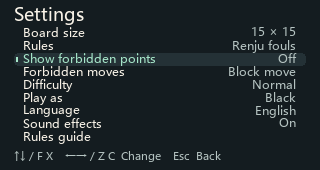
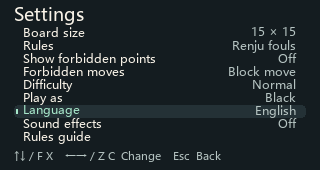
Document language switching in Five 1.2.1-4

Changed region(s): [[0.0312, 0.2941, 0.5, 0.3824], [0.0312, 0.6176, 0.25, 0.6765], [0.8438, 0.6765, 0.9375, 0.7647]]

diff --git a/build_package.py b/build_package.py
@@ -43,7 +43,7 @@ def main():
     launcher = "usr/share/APPLaunch"
     icon_path = f"{launcher}/share/images/five.png"
     control = """Package: five
-Version: 1.2.1-3
+Version: 1.2.1-4
 Section: games
 Priority: optional
 Architecture: arm64
@@ -82,7 +82,7 @@ Categories=Game;BoardGame;
         f"{docs}/LICENSE": ((root / "LICENSE").read_bytes(), 0o644),
         f"{docs}/build_rapfi.ps1": ((root / "build_rapfi.ps1").read_bytes(), 0o644),
     })
-    output = root / "dist" / "five_1.2.1-3_arm64.deb"
+    output = root / "dist" / "five_1.2.1-4_arm64.deb"
     output.parent.mkdir(exist_ok=True)
     output.write_bytes(b"!<arch>\n" + b"".join((
         ar_member("debian-binary", b"2.0\n"),

diff --git a/README.md b/README.md
@@ -4,10 +4,10 @@
 
 ## 安装
 
-将 `dist/five_1.2.1-3_arm64.deb` 复制到 Cardputer Zero，在设备上运行：
+将 `dist/five_1.2.1-4_arm64.deb` 复制到 Cardputer Zero，在设备上运行：
 
 ```sh
-sudo apt install ./five_1.2.1-3_arm64.deb
+sudo apt install ./five_1.2.1-4_arm64.deb
 ```
 
 安装后从应用启动器打开 **Five**。
@@ -31,20 +31,30 @@ On a Zero or the [Five web app](https://fivezero.vercel.app), choose **Create ro
 
 在 Cardputer Zero 上下五子棋。可与 Rapfi 对弈，选择三档难度，也可在同一台设备轮流落子。联机时，Zero 和浏览器都可创建房间，用 6 位房间码加入。同一局域网内可双 Zero、双网页或混合对战，电脑无需安装或运行额外程序。支持 15×15 和 13×13 棋盘、自由规则与连珠禁手，界面提供简体中文和英文。联机配对需要互联网连接，对局在局域网内直连。网页版：https://fivezero.vercel.app/
 
+Zero 切换语言：从主菜单进入「设置 / Settings」，选中「语言 / Language」，按 Enter 或左右方向键（Z / C）切换简体中文和 English。网页版可用右上角的「English / 简体中文」按钮切换。
+
 **English**
 
 Play Gomoku against Rapfi at three difficulty levels, take turns on one Cardputer Zero, or play over your LAN. Either a Zero or a browser can host or join using a 6-digit room code. The browser needs no extra software. Choose a 15×15 or 13×13 board with Freestyle or Renju fouls. The interface supports Simplified Chinese and English. Pairing requires internet access. Moves travel directly between players on the LAN. Web app: https://fivezero.vercel.app/
+
+To change the language on Zero, open Settings (设置) from the main menu, select Language (语言), and press Enter or Left/Right (Z/C) to switch between Simplified Chinese and English. On the web, use the English / 简体中文 button in the top right.
 
 ## 截图 / Screenshots
 
 | 简体中文 | English |
 | --- | --- |
+| ![切换语言](screenshots/renju-settings-zh.png) | ![Changing the language](screenshots/renju-settings-en.png) |
 | ![终局与重新开始](screenshots/results-zh.png) | ![Results and Play again](screenshots/results-en.png) |
 | ![联机对局](screenshots/lan-game-zh.png) | ![LAN match](screenshots/lan-game-en.png) |
 | ![创建房间](screenshots/room-setup-zh.png) | ![Room setup](screenshots/room-setup-en.png) |
 | ![等待对手](screenshots/room-code-zh.png) | ![Waiting for opponent](screenshots/room-code-en.png) |
 
 ## 最近改动 / What's new
+
+**1.2.1-4**
+
+- 在应用介绍中补充 Zero 和网页版的语言切换步骤。
+- The app description now explains how to switch languages on Zero and on the web.
 
 **1.2.1-3**
 
